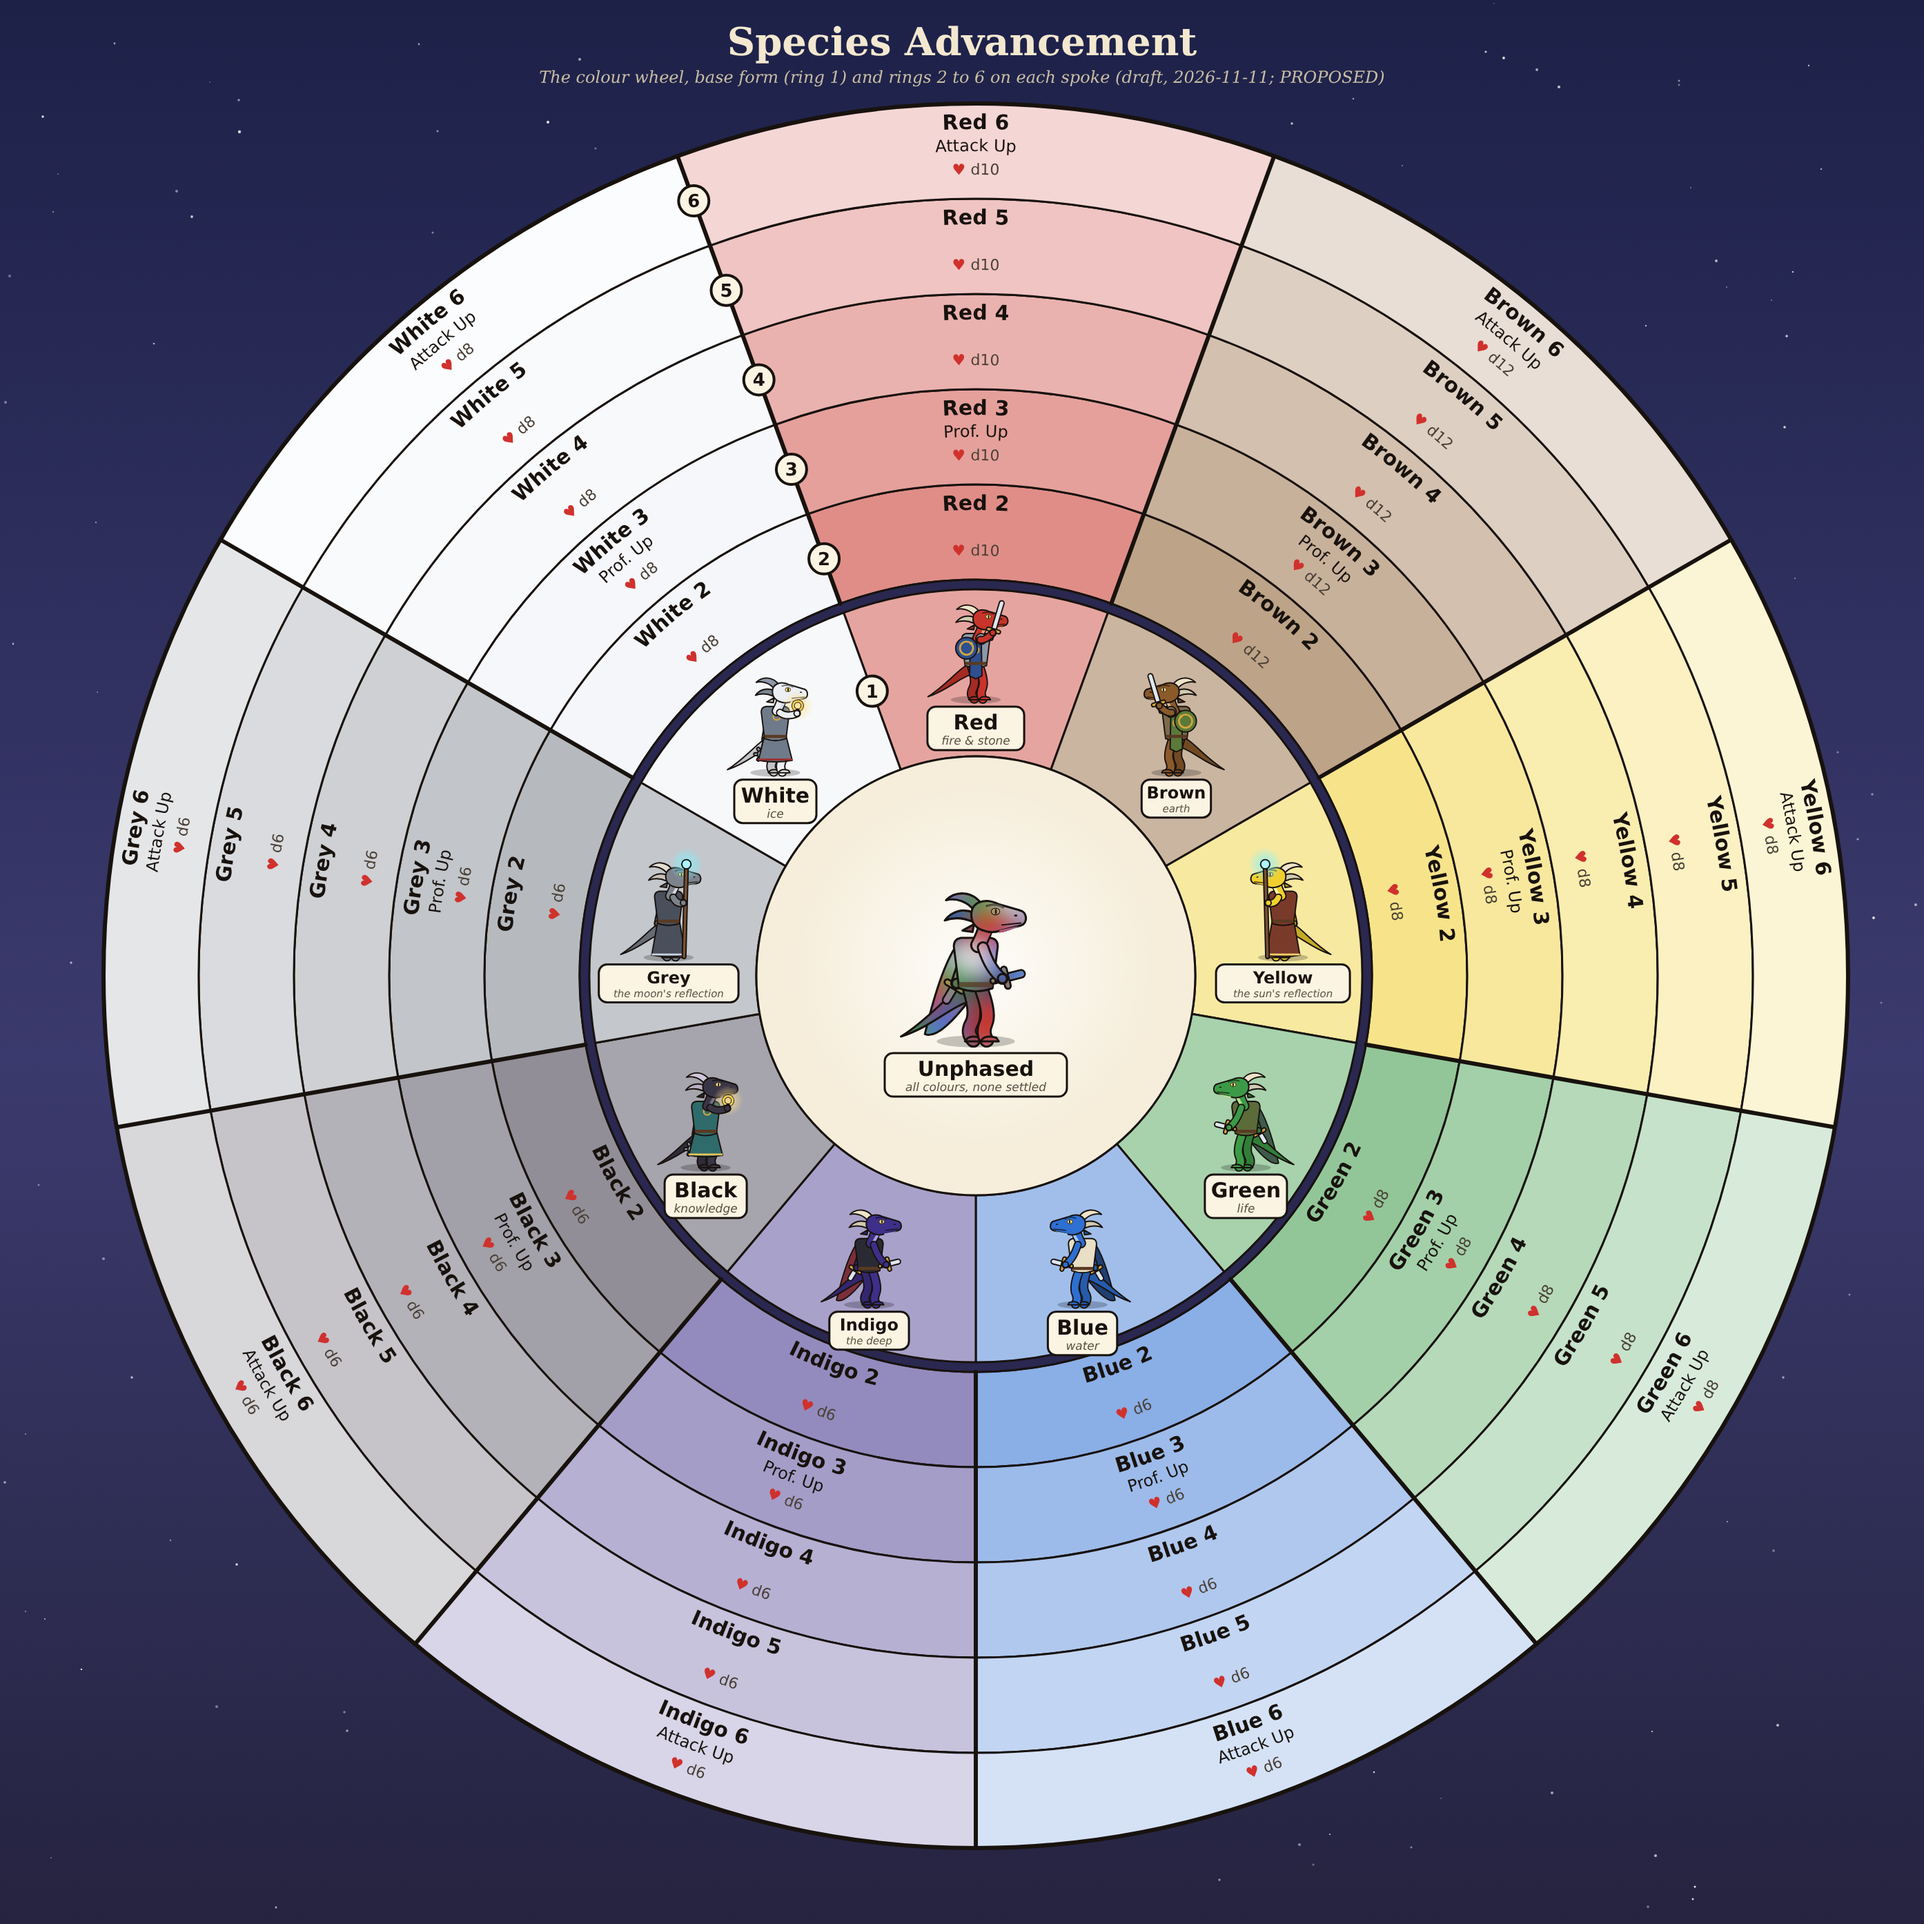
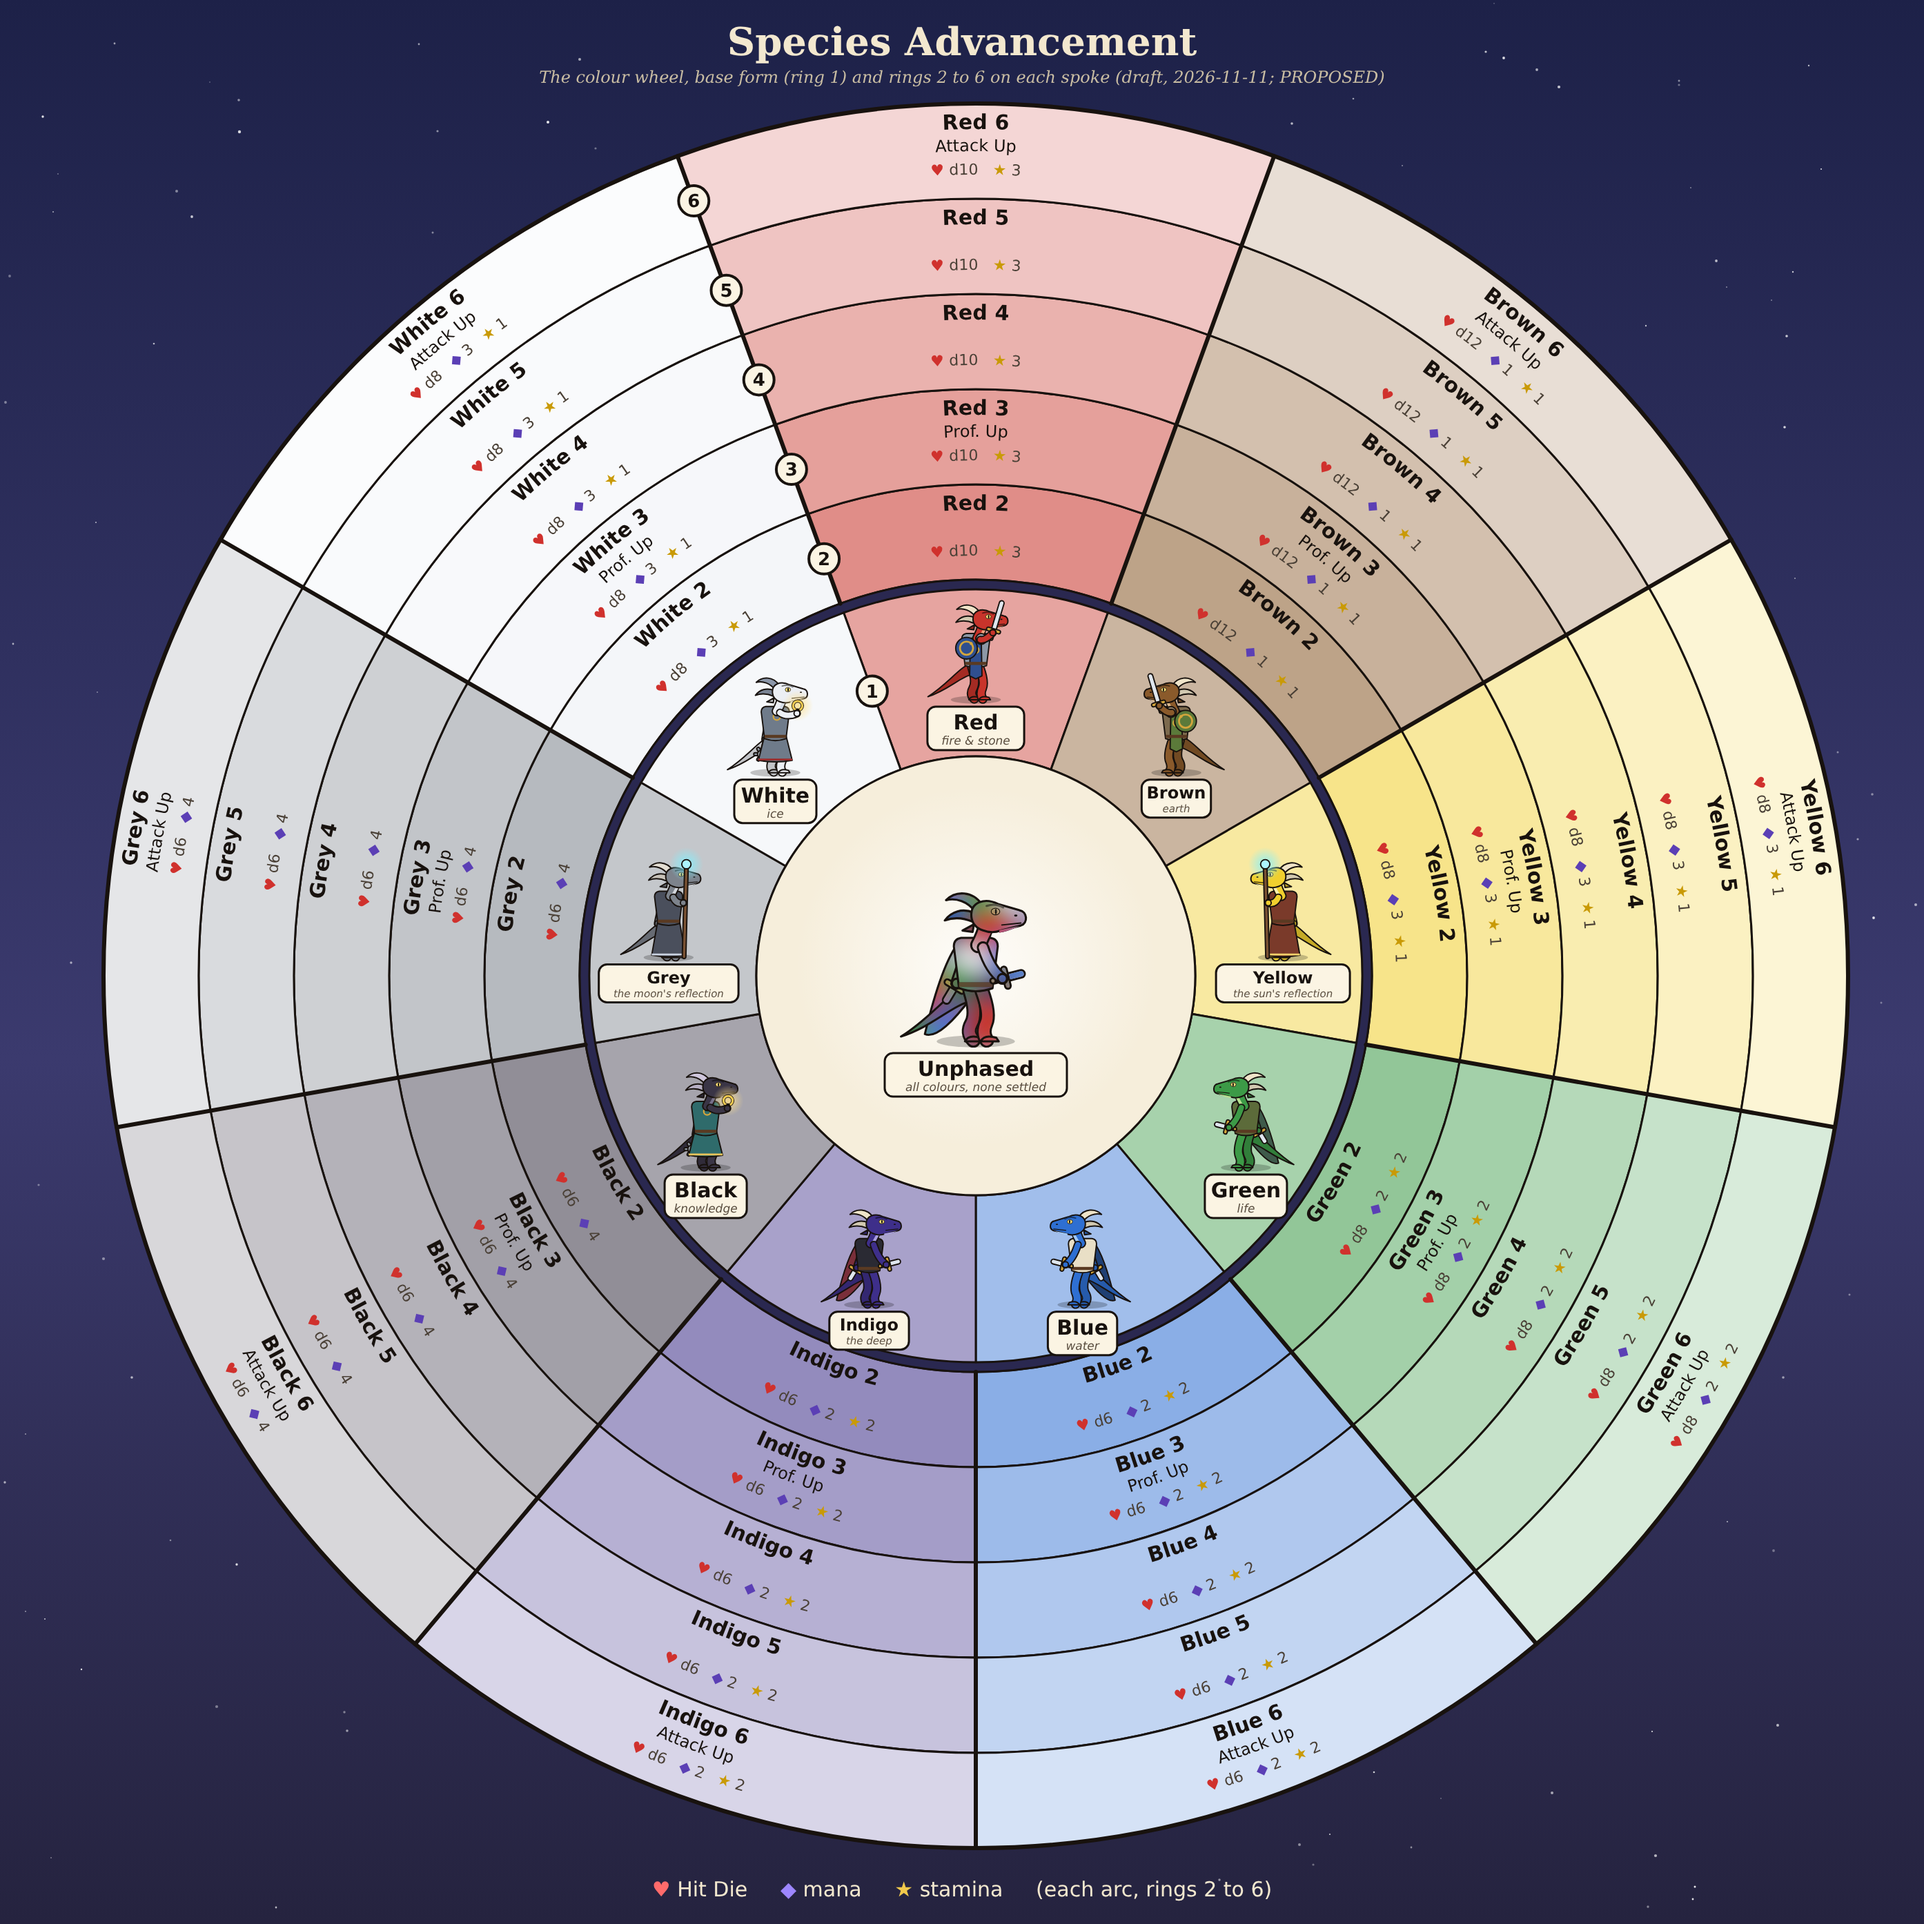
Species wheel: mana and stamina per colour on rings 2-6
Claude-Session: https://claude.ai/code/session_014HRxeLr7e6EW9qyhZxDWju

diff --git a/art/cartoon/species_advancement.py b/art/cartoon/species_advancement.py
@@ -38,6 +38,19 @@ ARCS = {}
 # A text heart (not the emoji), so it turns with the curved text.
 HEART = '<tspan fill="#d0312d" font-weight="bold">\u2665</tspan>'
 # Hit Die per colour on rings 2-6, none on ring 1 (Troy, voice, 2026-11-11).
+# Pools per arc on rings 2-6 (Troy, voice, 2026-11-11): about three
+# quarters of a matching grid tile, so a pure caster still prefers the grid.
+STAR = '<tspan fill="#c99a06" font-weight="bold">\u2605</tspan>'   # stamina
+MANA = '<tspan fill="#5b3fb5" font-weight="bold">\u25c6</tspan>'   # mana
+POOL = {"Red": (0, 3), "Brown": (1, 1), "Yellow": (3, 1), "Green": (2, 2),
+        "Blue": (2, 2), "Indigo": (2, 2), "Black": (4, 0), "Grey": (4, 0),
+        "White": (3, 1)}   # (mana, stamina)
+def pool_line(form):
+    m, st_ = POOL[form]
+    out = HEART + " " + HIT_DIE[form]
+    if m: out += "\u00a0\u00a0\u00a0" + MANA + " " + str(m)
+    if st_: out += "\u00a0\u00a0\u00a0" + STAR + " " + str(st_)
+    return out
 HIT_DIE = {"Red": "d10", "Brown": "d12", "Yellow": "d8", "Green": "d8",
            "Blue": "d6", "Indigo": "d6", "Black": "d6", "Grey": "d6", "White": "d8"}
 
@@ -97,7 +110,7 @@ def build():
         for j, k in enumerate(range(FIRST, LAST + 1)):
             r_in, r_out = R0 + j * RW, R0 + (j + 1) * RW
             o.append(arc_band(r_in, r_out, a0, a1, light(scale, 0.35 + 0.09 * (j + 1))))
-            title, desc, nums = ARCS.get((form, k), (f"{name} {k}", FIXED.get(k, ""), HEART + " " + HIT_DIE[form]))
+            title, desc, nums = ARCS.get((form, k), (f"{name} {k}", FIXED.get(k, ""), pool_line(form)))
             pid = f"t_{form}_{k}"
             # Three lines, outermost first: title, descriptor, numbers. On the
             # lower half the text is upright, so the order flips radially.
@@ -145,6 +158,10 @@ def build():
         o.append(f'<circle cx="{x:.1f}" cy="{y:.1f}" r="22" fill="#fbf4e3" stroke="{INK}" stroke-width="4"/>'
                  f'<text x="{x:.1f}" y="{y + 9:.1f}" text-anchor="middle" font-family="DejaVu Sans" '
                  f'font-weight="bold" font-size="26" fill="{INK}">{k}</text>')
+    # Legend
+    o.append(f'<text x="{W/2}" y="{H - 40}" text-anchor="middle" font-family="DejaVu Sans" font-size="30" fill="#f3e8cf">'
+             f'<tspan fill="#ff6b6b">\u2665</tspan> Hit Die\u00a0\u00a0\u00a0\u00a0 <tspan fill="#9d86ff">\u25c6</tspan> mana\u00a0\u00a0\u00a0\u00a0 '
+             f'<tspan fill="#f2c94c">\u2605</tspan> stamina\u00a0\u00a0\u00a0\u00a0 (each arc, rings 2 to 6)</text>')
     # Title
     o.append(f'<text x="{W/2}" y="80" text-anchor="middle" font-family="DejaVu Serif" font-weight="bold" '
              f'font-size="56" fill="#f3e8cf">Species Advancement</text>')

diff --git a/canon/brainstorm-progression.md b/canon/brainstorm-progression.md
@@ -324,7 +324,9 @@ Before the revaluation, every kit was below the 2024 level 1 it replaces, and th
 - **Linear cost** per ring for now (replacing the Fibonacci idea). **Six rings including the base:** the base form is **ring 1** (you always have it unless Unphased); rings **2–6** go outward: **9 × 5 = 45 arcs** to fill. Basically on-the-rails progression; if we ever branch, we split rings.
 - **Progress points** *(Troy, 2026-11-11)*: each level-up gives **one progress point**, invested either here or on the skills grid. Each is **six deep**: this wheel linear, the grid flexible (dipping into several kits). **Six deep in either should give about the same power**, so neither path misses Attack Up or Prof. Up.
 - **Fixed on every spoke:** **Prof. Up on ring 3**, **Attack Up on ring 6**. Hit Dice, stamina and mana to be added next.
-- **Hit Dice** *(Troy, voice, 2026-11-11)*: **none on ring 1**; rings 2–6 give a Hit Die, **one die per colour**, the **same die all the way out** the spoke (for now). Big dice are fine: a Mage may buy hit points here, because it sacrifices Mage progress to do it. **Dice per colour** *(Troy, voice)*: **Brown d12** (the huge, unshakeable farmer), **Red d10** (Strength, Large), **Yellow d8** (on the back of its Constitution), **Green d8** (splitting Dex and Con), **White d8**, **Blue d6**, **Indigo d6**, **Black d6**, **Grey d6**. No d4s. *(Claude: six deep on a skills-grid main line also gives one of each, Attack Up on ring 5 and Prof. Up on ring 6.)*
+- **Hit Dice** *(Troy, voice, 2026-11-11)*: **none on ring 1**; rings 2–6 give a Hit Die, **one die per colour**, the **same die all the way out** the spoke (for now). Big dice are fine: a Mage may buy hit points here, because it sacrifices Mage progress to do it. **Dice per colour** *(Troy, voice)*: **Brown d12** (the huge, unshakeable farmer), **Red d10** (Strength, Large), **Yellow d8** (on the back of its Constitution), **Green d8** (splitting Dex and Con), **White d8**, **Blue d6**, **Indigo d6**, **Black d6**, **Grey d6**. No d4s.
+- **Mana and stamina** *(Troy, voice, 2026-11-11)*: few ways to spend pools on this wheel itself, but some builds get spells from the grid. A colour's arc gives **about three quarters** of a matching grid tile, so a pure Mage still prefers the grid while a Black Mage gains without losing progress. Per arc, rings 2–6: **Red** 3 stamina; **Brown** 1 mana, 1 stamina (plant growth for the farmers); **Yellow** 3 mana, 1 stamina (the perfect Yellow takes the Alchemist); **Green** 2 and 2 (rangers); **Blue** and **Indigo** 2 mana, 2 stamina (raised from 1 mana so their d6 is paid for; a summoner option); **Black** and **Grey** 4 mana; **White** 3 mana, 1 stamina.
+  - **Balance:** the bigger the Hit Die, the smaller the pool. Pool value per arc (mana ×2): Brown 3 and Red 3; Yellow 7, Green 6, White 7; Blue 6, Indigo 6, Black 8, Grey 8. *(Claude: six deep on a skills-grid main line also gives one of each, Attack Up on ring 5 and Prof. Up on ring 6.)*
 - **Open:** choices per ring; what the Unphased do with form points; how points accumulate.
 - **Diagram:** `art/cartoon/species_advancement.py` → `output/species_advancement.png`. The colour wheel (unchanged in `colour_wheel.py`) without Gold and Silver, six concentric rings, nine radial lines; arc text follows the arc. Fill arcs in its `ARCS` table.
 

diff --git a/canon/decisions.md b/canon/decisions.md
@@ -4,6 +4,7 @@ Newest first. One line per decision: what was decided, and why if a reason was g
 
 ## 2026-11-11
 
+- **Species wheel pools** (Troy, voice): about three quarters of a grid tile. Per arc, rings 2–6: Red 3 stamina; Brown 1 mana 1 stamina; Yellow 3 mana 1 stamina; Green, Blue, Indigo 2 mana 2 stamina; Black, Grey 4 mana; White 3 mana 1 stamina. Bigger Hit Dice, smaller pools.
 - **Species wheel Hit Dice** (Troy, voice): none on ring 1; one die per colour on rings 2–6, the same along the spoke; large dice allowed (buying hit points here costs grid progress). Brown d12; Red d10; Yellow, Green, White d8; Blue, Indigo, Black, Grey d6.
 - **Species wheel rings and progress points** (Troy): the base form is ring 1, advancement rings 2–6 (45 arcs). One progress point per level-up, spent on this wheel or the skills grid; six deep in either gives about the same power. Prof. Up on every ring-3 arc, Attack Up on every ring-6 arc.
 - **Species advancement wheel** (Troy): the root is the existing species description and colour-wheel form; linear cost per ring for now, six rings deep (54 arcs); choices per ring, Unphased points and accumulation left open. No breath weapons (reaffirmed). Diagram: `art/cartoon/species_advancement.py`.
